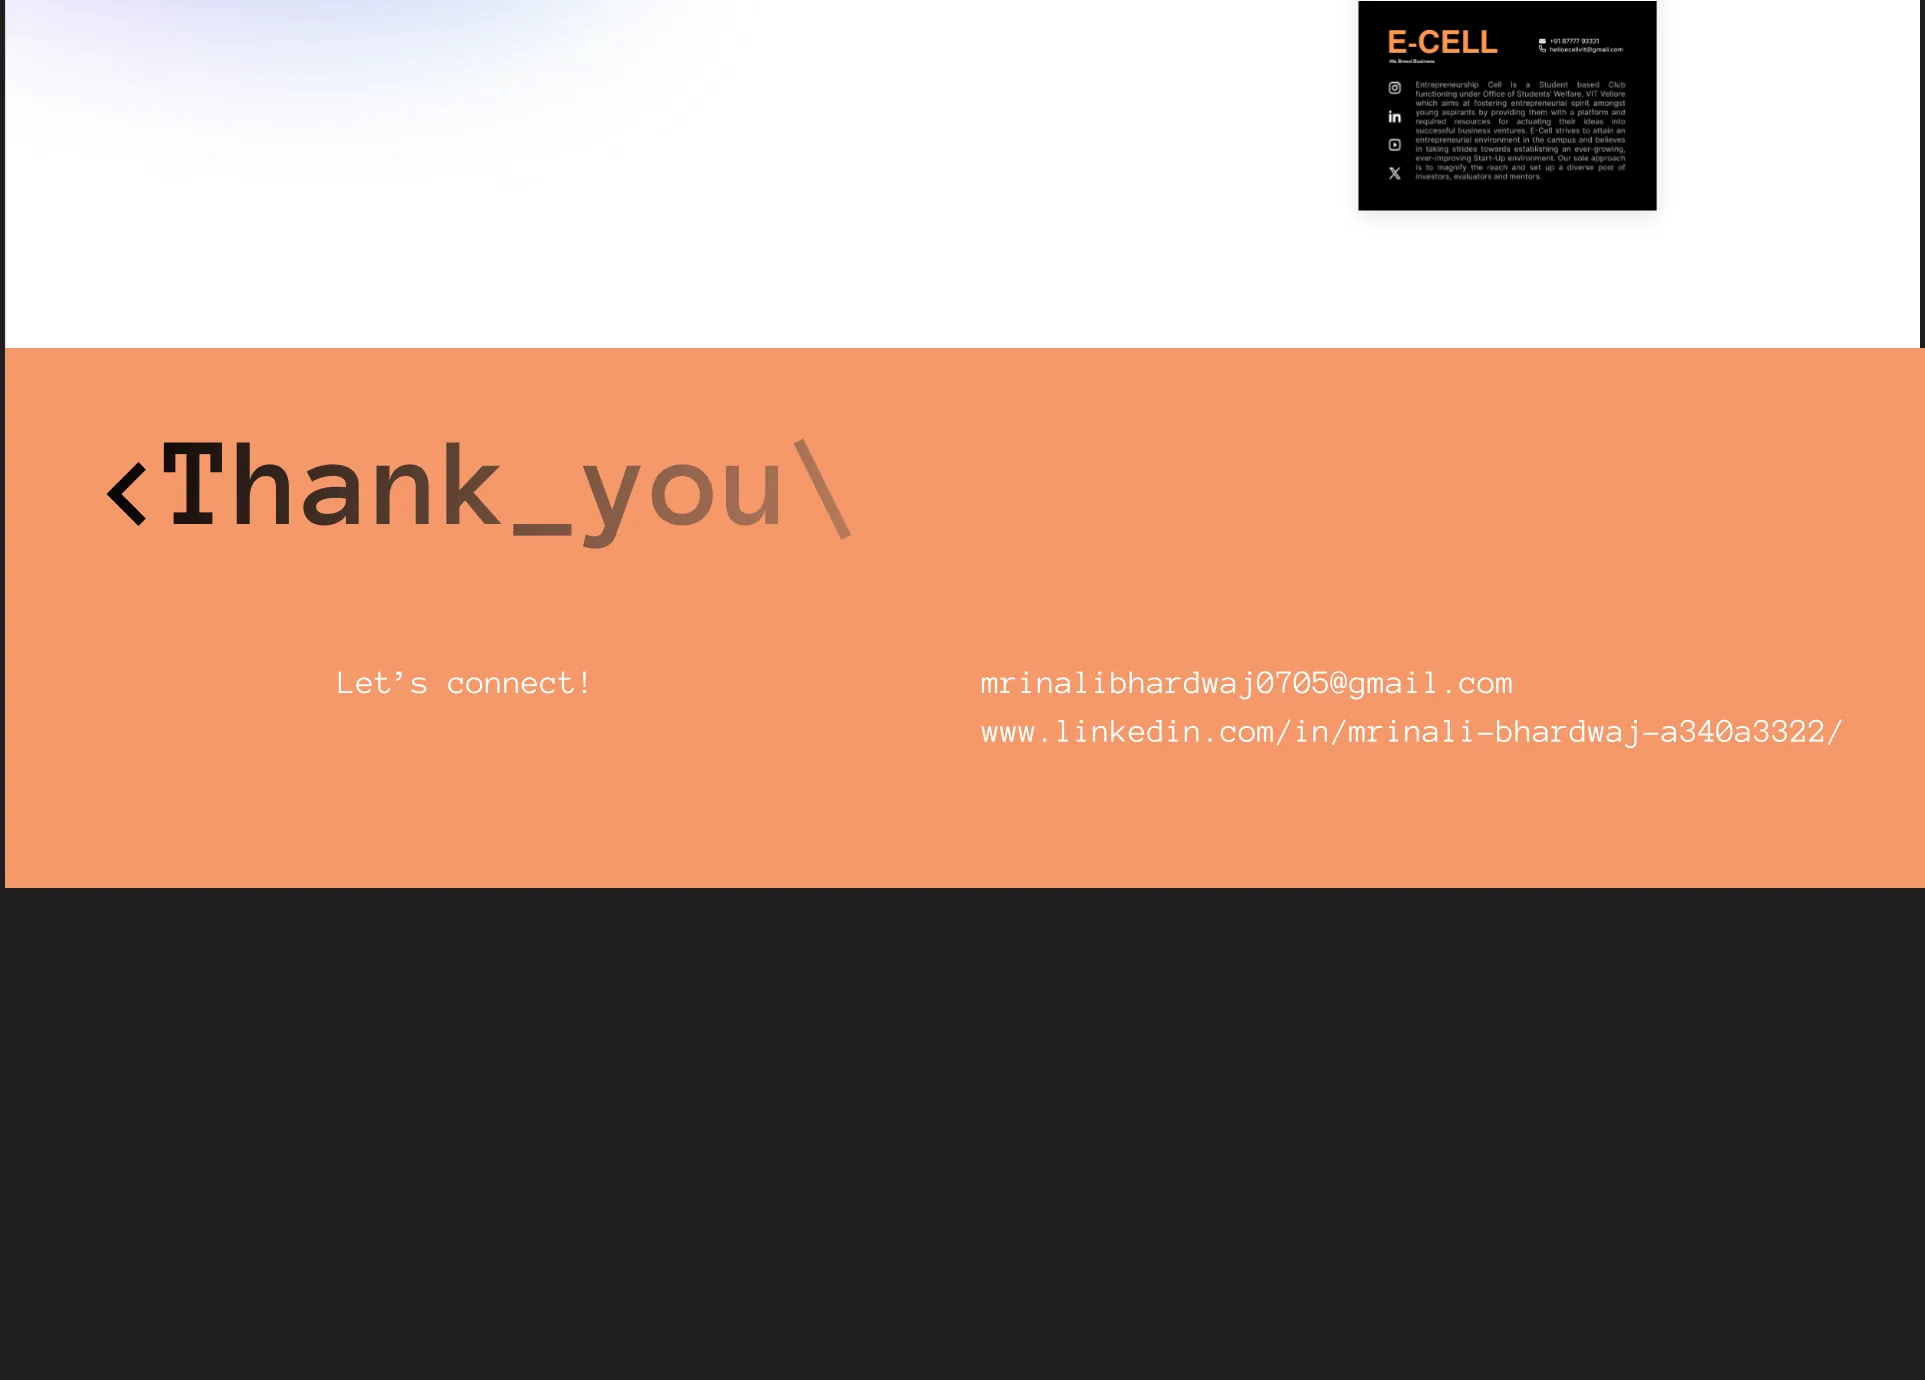
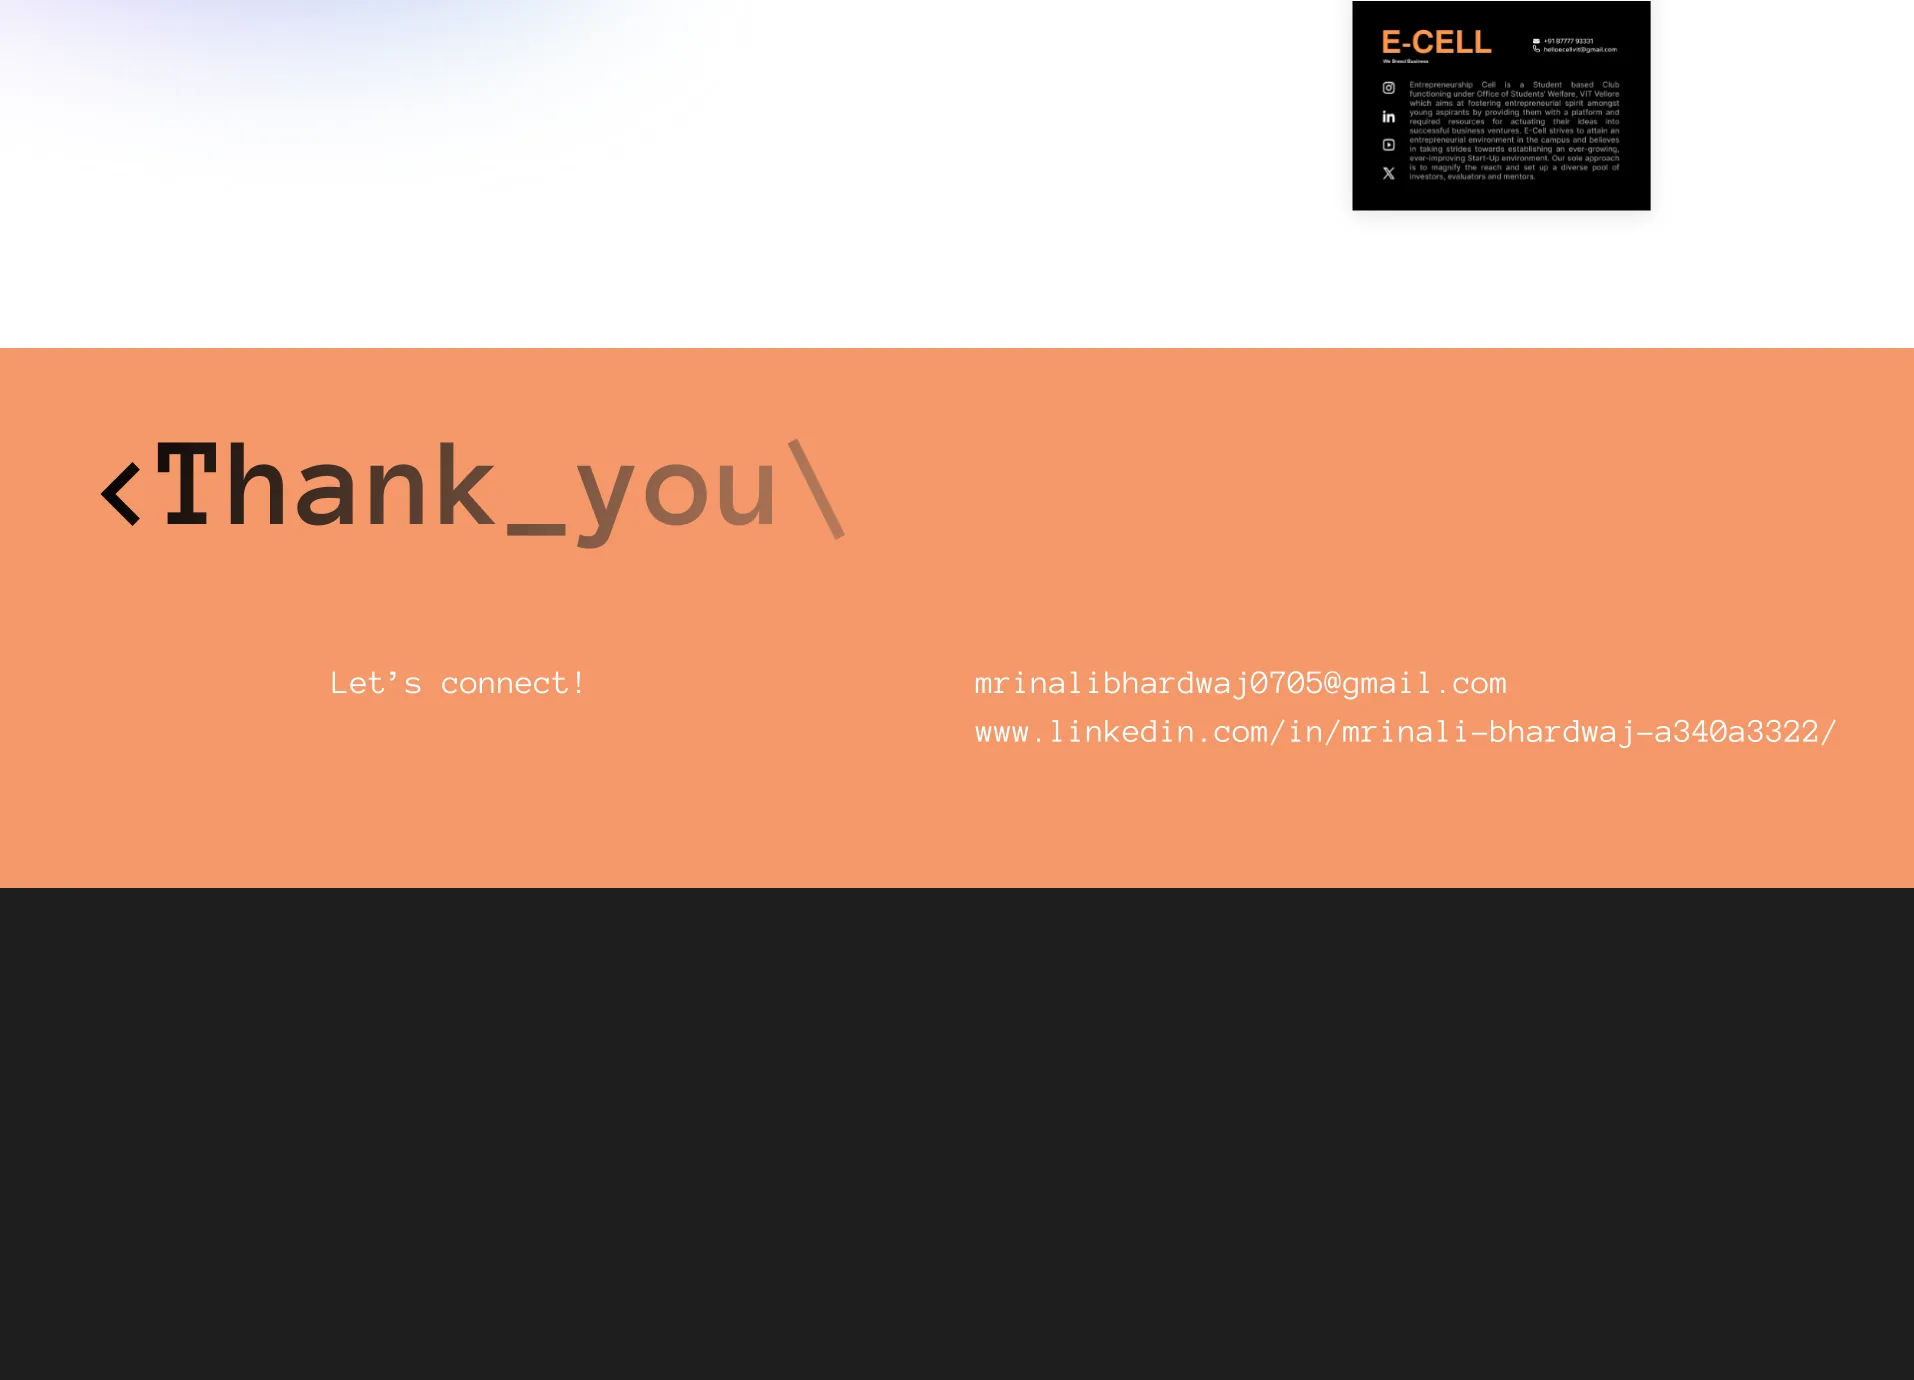
Trim the border that was showing as black strips
Both Futurepreneurs boards carry a thin rgb(30,30,30) edge on their outer
columns - 6 left / 5 right on the first, 10 / 10 on the second. Invisible
against their dark sections and a hard black strip down the side of every
light one.

The wrong theories were all plausible and all cost time: transparency
composited onto black (there is none, 0.0% alpha), overlapping canvas
content bleeding into the node render (contentsOnly: true shows the same
thing), WebP banding in a near-black gradient (real but tiny - mean error
0.68 at q80). What found it was asking a different question: not "where is
it dark" but WHICH COLUMNS ARE NEVER WHITE. The outermost five answered 0.0
against 0.39 for their neighbours.

The exports are now the frame minus that border - 1914 and 1910 wide - and
the hero is re-cropped from the trimmed board so it carries no edge either.
`dims` still names her Figma frame, which is what it describes.

Verified on the source: light rows with a dark edge went 64 of 64 samples
to 0 on both boards. On screen at 1512 wide, 174 light board rows, none
with a dark edge, and a white section now runs edge to edge. 14 slices,
1.66 MB. typecheck and build clean.

diff --git a/src/projects.js b/src/projects.js
@@ -231,6 +231,13 @@ export const PROJECTS = [
       { value: "10th", label: "edition of the event" },
     ],
     hero: "/work/futurepreneurs/hero.webp",
+    // TRIMMED AT THE EDGES. Both boards carry a thin rgb(30,30,30) border on
+    // their outer columns — 6 left / 5 right on the first, 10 / 10 on the
+    // second. Invisible against their dark sections and a hard black strip down
+    // the side of every light one, which is exactly what it looked like. The
+    // `dims` below stay the Figma frame's own; the exports are that minus the
+    // border.
+    //
     // TWO BOARDS, IN THE ORDER SHE GAVE THEM (10 Sep 2026). They overlap: the
     // second is largely a superset of the first — same type spread, same LINE
     // and D-Day screens, same "10 YEARS", same FAQs, same closing slide — and
@@ -241,12 +248,12 @@ export const PROJECTS = [
         node: "345:2408", dims: "1925 × 12354",
         title: "The case study",
         slices: [
-          { src: "/work/futurepreneurs/case-a/s00.webp", w: 1925, h: 2619 },
-          { src: "/work/futurepreneurs/case-a/s01.webp", w: 1925, h: 1780 },
-          { src: "/work/futurepreneurs/case-a/s02.webp", w: 1925, h: 1985 },
-          { src: "/work/futurepreneurs/case-a/s03.webp", w: 1925, h: 1999 },
-          { src: "/work/futurepreneurs/case-a/s04.webp", w: 1925, h: 2591 },
-          { src: "/work/futurepreneurs/case-a/s05.webp", w: 1925, h: 1380 },
+          { src: "/work/futurepreneurs/case-a/s00.webp", w: 1914, h: 2619 },
+          { src: "/work/futurepreneurs/case-a/s01.webp", w: 1914, h: 1780 },
+          { src: "/work/futurepreneurs/case-a/s02.webp", w: 1914, h: 2072 },
+          { src: "/work/futurepreneurs/case-a/s03.webp", w: 1914, h: 1912 },
+          { src: "/work/futurepreneurs/case-a/s04.webp", w: 1914, h: 2591 },
+          { src: "/work/futurepreneurs/case-a/s05.webp", w: 1914, h: 1380 },
         ],
         alt:
           "The Futurepreneurs 10.0 case study: the event site on a laptop over black, the brand’s violet-and-yellow system with Whyte Inktrap and Gantari, the auditorium it filled, the LINE and D-Day screens, a “10 YEARS FUTUREPRENEURS” spread, the FAQs and the website, closing on an orange “Thank_you” slide.",
@@ -255,14 +262,14 @@ export const PROJECTS = [
         node: "345:15635", dims: "1930 × 16481",
         title: "The full deck",
         slices: [
-          { src: "/work/futurepreneurs/case-b/s00.webp", w: 1930, h: 2094 },
-          { src: "/work/futurepreneurs/case-b/s01.webp", w: 1930, h: 1780 },
-          { src: "/work/futurepreneurs/case-b/s02.webp", w: 1930, h: 2367 },
-          { src: "/work/futurepreneurs/case-b/s03.webp", w: 1930, h: 2398 },
-          { src: "/work/futurepreneurs/case-b/s04.webp", w: 1930, h: 1973 },
-          { src: "/work/futurepreneurs/case-b/s05.webp", w: 1930, h: 2236 },
-          { src: "/work/futurepreneurs/case-b/s06.webp", w: 1930, h: 2064 },
-          { src: "/work/futurepreneurs/case-b/s07.webp", w: 1930, h: 1569 },
+          { src: "/work/futurepreneurs/case-b/s00.webp", w: 1910, h: 2094 },
+          { src: "/work/futurepreneurs/case-b/s01.webp", w: 1910, h: 1780 },
+          { src: "/work/futurepreneurs/case-b/s02.webp", w: 1910, h: 2367 },
+          { src: "/work/futurepreneurs/case-b/s03.webp", w: 1910, h: 2307 },
+          { src: "/work/futurepreneurs/case-b/s04.webp", w: 1910, h: 2064 },
+          { src: "/work/futurepreneurs/case-b/s05.webp", w: 1910, h: 2236 },
+          { src: "/work/futurepreneurs/case-b/s06.webp", w: 1910, h: 1780 },
+          { src: "/work/futurepreneurs/case-b/s07.webp", w: 1910, h: 1853 },
         ],
         alt:
           "The longer Futurepreneurs 10.0 deck: it opens on “PROJECT FUTUREPRENEURS” with the brief and deliverables, then the type and colour system, the event timeline and its sponsors, the aftermovie, winners and prize pool, the registration screens and QR flow, phone mockups, the “10 YEARS” spread, FAQs, the website, stickers, the animation and the certificate — closing on the same orange “Thank_you” slide.",

diff --git a/src/case-window.css b/src/case-window.css
@@ -750,7 +750,7 @@
 }
 
 .cw-board .cw-strip {
-  max-width: 1930px; /* the widest board any project carries, at native */
+  max-width: 1914px; /* the widest board any project carries, at native */
 }
 
 .cw-board figcaption {

diff --git a/DECISIONS.md b/DECISIONS.md
@@ -3311,3 +3311,19 @@ and these carry 1925 against Layover's 1600.
 
 **`hero` is cropped from the top of the first board**, not from `cover`: that
 one is 1920 × 720 and a 16/10 hero box would have cut the wordmark in half.
+
+**Correction, same day — the boards had a border and it showed.** Both carry a
+thin `rgb(30, 30, 30)` edge on their outer columns: 6 left / 5 right on the
+first, 10 / 10 on the second. Invisible against their dark sections and a hard
+black strip down the side of every light one — which is exactly what it looked
+like on the page.
+
+Worth recording how long it took to find, because the wrong theories were all
+plausible: transparency composited onto black (there is none — 0.0% alpha),
+overlapping canvas content bleeding into the render (`contentsOnly: true` shows
+the same thing), WebP banding in a near-black gradient (the error is real but
+tiny — mean 0.68 at q80). The thing that actually found it was asking a
+different question: not "where is it dark?" but **"which columns are NEVER
+white?"** The outermost five answered 0.0 against 0.39 for their neighbours.
+
+The exports are the frame minus that border; `dims` still names her frame.
